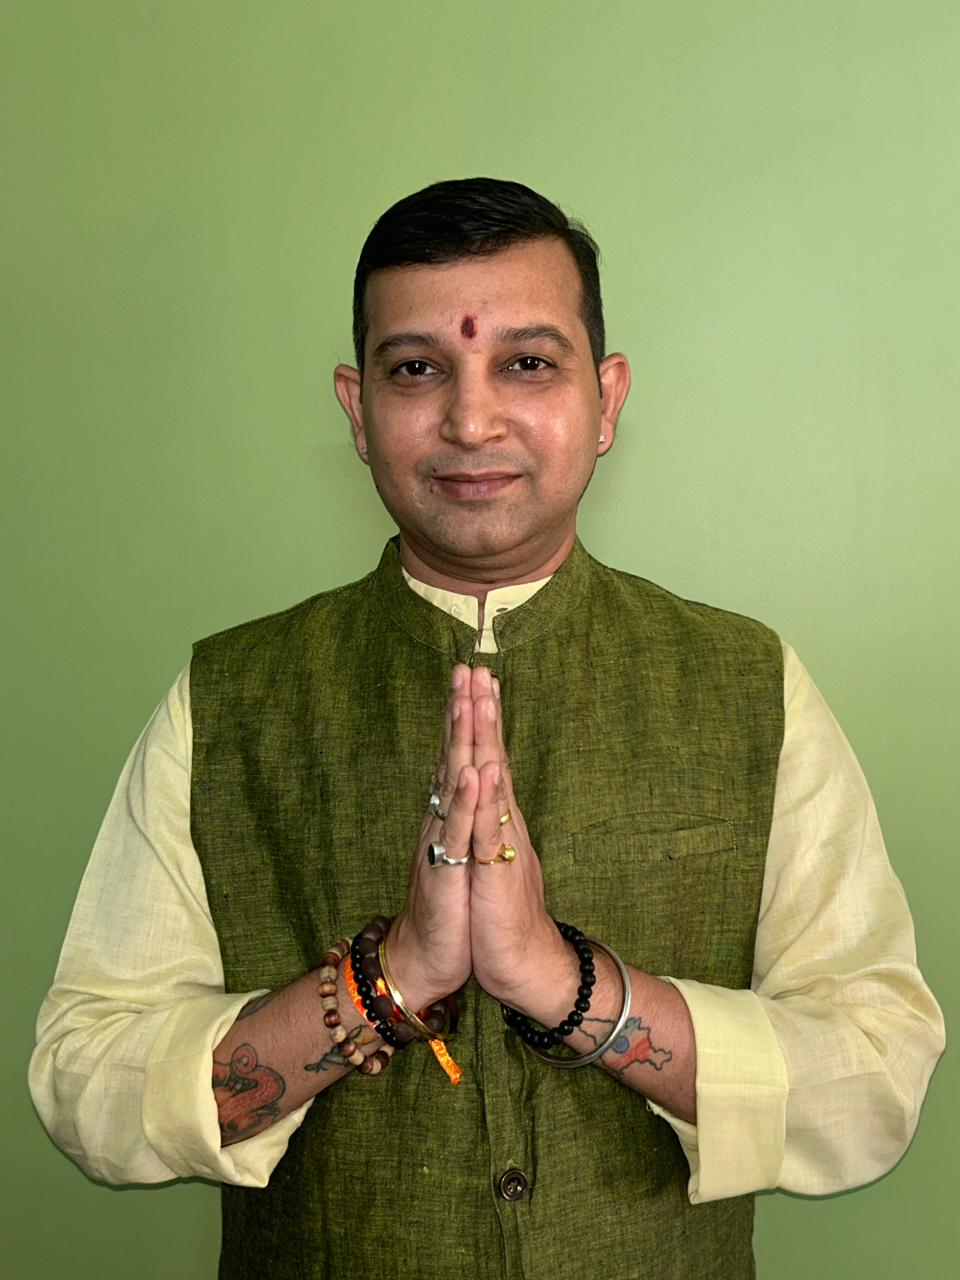
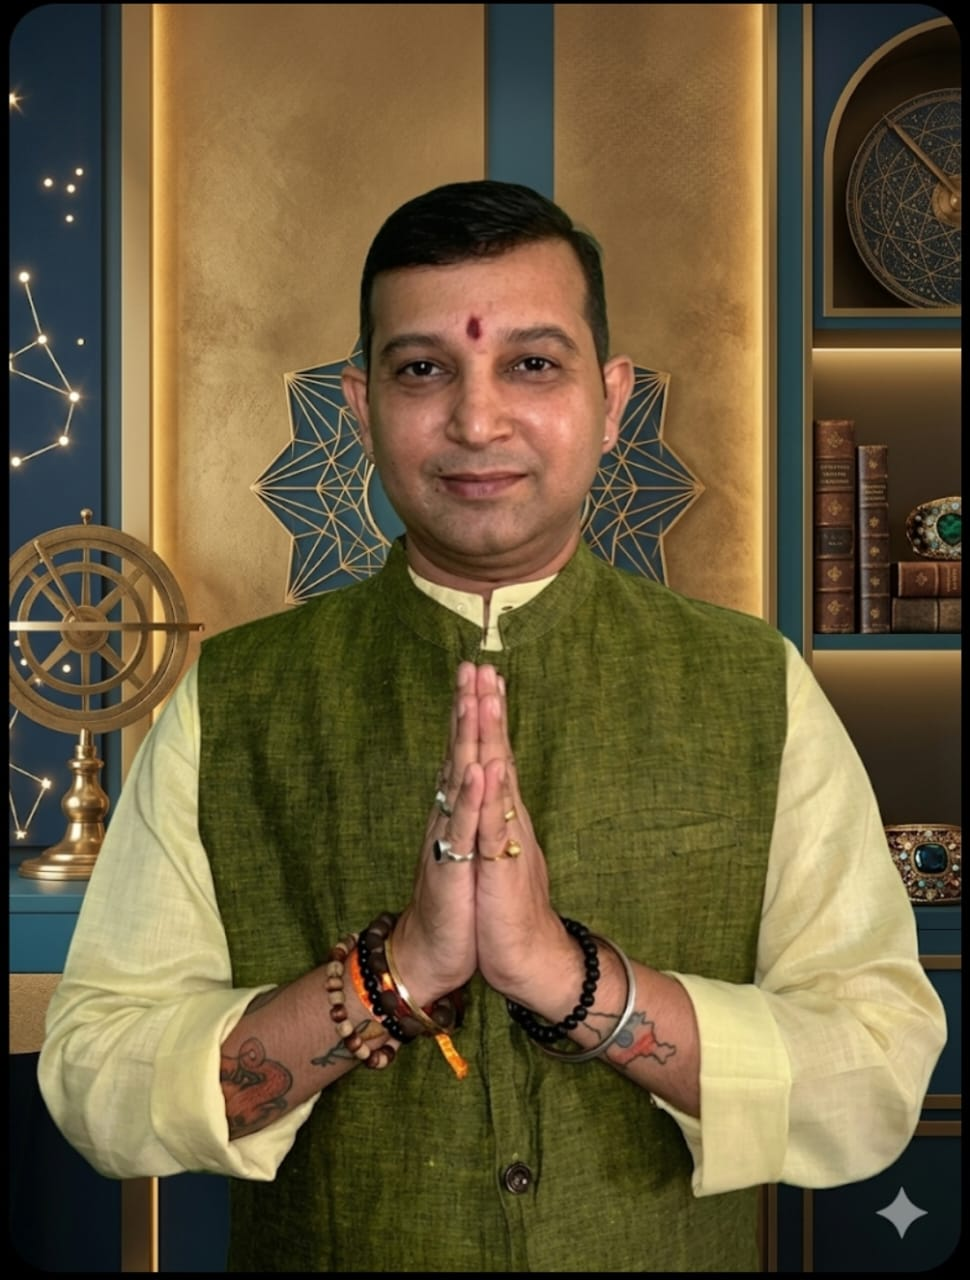
client img

diff --git a/src/components/home/HeroSection.tsx b/src/components/home/HeroSection.tsx
@@ -194,6 +194,137 @@
 //             </motion.p>
 //           </motion.div>
 
+//           {/* ── MOBILE: Astrologer Photo ── */}
+//           <motion.div
+//             initial={{ opacity: 0, y: 30 }}
+//             animate={{ opacity: 1, y: 0 }}
+//             transition={{ duration: 0.85, delay: 0.3, ease }}
+//             className="flex justify-center items-center w-full"
+//           >
+//             <div className="relative flex items-center justify-center">
+
+//               {/* background glow blob */}
+//               <div
+//                 className="pointer-events-none absolute rounded-full blur-3xl"
+//                 style={{
+//                   width: 280,
+//                   height: 280,
+//                   background:
+//                     "radial-gradient(circle, rgba(251,191,36,0.14) 0%, rgba(139,92,246,0.06) 55%, transparent 100%)",
+//                 }}
+//               />
+
+//               {/* pulsing rings */}
+//               {[
+//                 { s: [1, 1.25, 1], o: [0.5,  0, 0.5],  delay: 0,   color: "rgba(139,92,246,0.3)"  },
+//                 { s: [1, 1.52, 1], o: [0.35, 0, 0.35], delay: 1.0, color: "rgba(251,191,36,0.25)" },
+//                 { s: [1, 1.80, 1], o: [0.18, 0, 0.18], delay: 2.1, color: "rgba(251,191,36,0.14)" },
+//               ].map((r, i) => (
+//                 <motion.div
+//                   key={i}
+//                   className="absolute rounded-full border pointer-events-none"
+//                   animate={{ scale: r.s, opacity: r.o }}
+//                   transition={{ duration: 4, repeat: Infinity, ease: "easeInOut", delay: r.delay }}
+//                   style={{
+//                     width: 220,
+//                     height: 220,
+//                     borderColor: r.color,
+//                   }}
+//                 />
+//               ))}
+
+//               {/* floating image container */}
+//               <motion.div
+//                 animate={{ y: [-7, 0, -7] }}
+//                 transition={{ duration: 5.5, repeat: Infinity, ease: "easeInOut" }}
+//                 className="relative z-10"
+//               >
+//                 {/* corner brackets */}
+//                 {[
+//                   { top: -10, left:  -10, borderTop:    "1.5px solid", borderLeft:   "1.5px solid" },
+//                   { top: -10, right: -10, borderTop:    "1.5px solid", borderRight:  "1.5px solid" },
+//                   { bottom: -10, left:  -10, borderBottom: "1.5px solid", borderLeft:  "1.5px solid" },
+//                   { bottom: -10, right: -10, borderBottom: "1.5px solid", borderRight: "1.5px solid" },
+//                 ].map((c, i) => (
+//                   <motion.div
+//                     key={i}
+//                     initial={{ opacity: 0 }}
+//                     animate={{ opacity: 1 }}
+//                     transition={{ delay: 0.6 + i * 0.08 }}
+//                     className="absolute pointer-events-none"
+//                     style={{ ...c, width: 22, height: 22, borderColor: "rgba(251,191,36,0.75)", borderRadius: 3 }}
+//                   />
+//                 ))}
+
+//                 <div
+//                   className="relative rounded-2xl overflow-hidden"
+//                   style={{
+//                     background: "#06060f",
+//                     boxShadow: [
+//                       "0 0 0 1px rgba(251,191,36,0.38)",
+//                       "0 0 28px rgba(251,191,36,0.15)",
+//                       "0 0 70px rgba(251,191,36,0.07)",
+//                       "inset 0 1px 0 rgba(255,255,255,0.04)",
+//                       "0 32px 64px rgba(0,0,0,0.6)",
+//                     ].join(", "),
+//                   }}
+//                 >
+//                   <img
+//                     src={HeroImg}
+//                     alt="Astro Santosh Pandey"
+//                     className="block h-auto object-cover object-top"
+//                     style={{
+//                       width: "260px",
+//                       mixBlendMode: "screen",
+//                       filter: "brightness(0.94) contrast(1.09) saturate(1.06)",
+//                     }}
+//                   />
+//                   <div
+//                     className="absolute top-0 inset-x-0 h-20 pointer-events-none z-10"
+//                     style={{
+//                       background:
+//                         "radial-gradient(ellipse at 50% 0%, rgba(251,191,36,0.2) 0%, transparent 70%)",
+//                     }}
+//                   />
+//                   <div
+//                     className="absolute bottom-0 inset-x-0 h-20 pointer-events-none z-10"
+//                     style={{
+//                       background: "linear-gradient(to top, rgba(6,6,15,0.96) 0%, transparent 100%)",
+//                     }}
+//                   />
+//                 </div>
+//               </motion.div>
+
+//               {/* sparkle dots */}
+//               {[
+//                 { top: "9%",  left:  "1%",  size: 5, delay: 0.0 },
+//                 { top: "22%", right: "3%",  size: 4, delay: 0.8 },
+//                 { top: "48%", left:  "-1%", size: 6, delay: 1.6 },
+//                 { top: "68%", right: "2%",  size: 4, delay: 0.4 },
+//                 { top: "82%", left:  "5%",  size: 3, delay: 2.0 },
+//                 { top: "33%", right: "0%",  size: 5, delay: 1.2 },
+//                 { top: "58%", left:  "6%",  size: 3, delay: 2.4 },
+//               ].map((s, i) => (
+//                 <motion.div
+//                   key={i}
+//                   className="absolute rounded-full pointer-events-none"
+//                   style={{
+//                     width:      s.size,
+//                     height:     s.size,
+//                     top:        s.top,
+//                     left:       "left"  in s ? s.left  : undefined,
+//                     right:      "right" in s ? s.right : undefined,
+//                     background: "rgba(251,191,36,0.85)",
+//                     boxShadow:  `0 0 ${s.size * 3}px rgba(251,191,36,0.9)`,
+//                   }}
+//                   animate={{ opacity: [0.15, 1, 0.15], scale: [0.6, 1.5, 0.6] }}
+//                   transition={{ duration: 2.8, repeat: Infinity, ease: "easeInOut", delay: s.delay }}
+//                 />
+//               ))}
+//             </div>
+//           </motion.div>
+//           {/* ── END MOBILE: Astrologer Photo ── */}
+
 //         </div>
 
 //         {/* ── DESKTOP layout (hidden below lg) ── */}
@@ -265,17 +396,18 @@
 //                   background: "radial-gradient(circle, rgba(251,191,36,0.26) 0%, transparent 70%)",
 //                 }}
 //               />
+              
 //               <motion.img
-//                 src={LOGO}
-//                 alt="Astro Santosh Pandey Logo"
-//                 className="relative z-10 h-auto object-contain"
-//                 style={{
-//                   width: "clamp(260px, 28vw, 420px)",
-//                   filter: "drop-shadow(0 0 40px rgba(251,191,36,0.55))",
-//                 }}
-//                 animate={{ y: [-6, 0, -6] }}
-//                 transition={{ duration: 5, repeat: Infinity, ease: "easeInOut" }}
-//               />
+//   src={LOGO}
+//   alt="Astro Santosh Pandey Logo"
+//   className="relative z-10 h-auto object-contain"
+//   style={{
+//     width: "clamp(260px, 28vw, 420px)",
+//     filter: "brightness(1.15) contrast(0.95) drop-shadow(0 0 22px rgba(251,191,36,0.4))"
+//   }}
+//   animate={{ y: [-6, 0, -6] }}
+//   transition={{ duration: 5, repeat: Infinity, ease: "easeInOut" }}
+// />
 //             </div>
 
 //             <motion.div {...fadeUp(0.32)} className="relative mt-3 mb-2">
@@ -461,9 +593,10 @@
 
 
 
-//testing
 
 
+
+// // test 
 
 
 
@@ -581,18 +714,26 @@ export const HeroSection = () => {
             className="flex flex-col items-center gap-2 w-full"
           >
             <div className="relative flex items-center justify-center">
+              {/* Ambient glow behind logo */}
               <div
                 className="pointer-events-none absolute rounded-full blur-2xl"
                 style={{
-                  width: 220, height: 220,
-                  background: "radial-gradient(circle, rgba(251,191,36,0.26) 0%, transparent 70%)",
+                  width: 240, height: 240,
+                  background: "radial-gradient(circle, rgba(251,191,36,0.32) 0%, rgba(251,191,36,0.08) 55%, transparent 100%)",
                 }}
               />
               <motion.img
                 src={LOGO}
                 alt="Astro Santosh Pandey Logo"
                 className="relative z-10 h-auto object-contain"
-                style={{ width: 200, filter: "drop-shadow(0 0 28px rgba(251,191,36,0.5))" }}
+                style={{
+                  width: 200,
+                  // KEY FIX: "screen" blend mode makes the dark JPEG background
+                  // invisible so only the gold lion/zodiac artwork shines through —
+                  // matching exactly how the logo looks in the screenshot.
+                  mixBlendMode: "screen",
+                  filter: "brightness(1.1) contrast(1.05) saturate(1.1)",
+                }}
                 animate={{ y: [-5, 0, -5] }}
                 transition={{ duration: 5, repeat: Infinity, ease: "easeInOut" }}
               />
@@ -857,12 +998,13 @@ export const HeroSection = () => {
             style={{ minWidth: "clamp(280px, 30vw, 440px)" }}
           >
             <div className="relative flex items-center justify-center">
+              {/* Stronger ambient glow to complement gold logo */}
               <div
                 className="pointer-events-none absolute rounded-full blur-2xl"
                 style={{
-                  width:  "clamp(280px, 30vw, 460px)",
-                  height: "clamp(280px, 30vw, 460px)",
-                  background: "radial-gradient(circle, rgba(251,191,36,0.26) 0%, transparent 70%)",
+                  width:  "clamp(300px, 32vw, 480px)",
+                  height: "clamp(300px, 32vw, 480px)",
+                  background: "radial-gradient(circle, rgba(251,191,36,0.32) 0%, rgba(251,191,36,0.08) 55%, transparent 100%)",
                 }}
               />
               <motion.img
@@ -871,7 +1013,11 @@ export const HeroSection = () => {
                 className="relative z-10 h-auto object-contain"
                 style={{
                   width: "clamp(260px, 28vw, 420px)",
-                  filter: "drop-shadow(0 0 40px rgba(251,191,36,0.55))",
+                  // KEY FIX: "screen" blend mode knocks out the dark JPEG background
+                  // so only the vivid gold lion and zodiac ring are visible —
+                  // perfectly matching the screenshot's gold-on-dark aesthetic.
+                  mixBlendMode: "screen",
+                  filter: "brightness(1.1) contrast(1.05) saturate(1.1)",
                 }}
                 animate={{ y: [-6, 0, -6] }}
                 transition={{ duration: 5, repeat: Infinity, ease: "easeInOut" }}

diff --git a/src/pages/Contact.tsx b/src/pages/Contact.tsx
@@ -457,7 +457,7 @@ const Contact = () => {
                         "radial-gradient(circle, rgba(251,191,36,0.26) 0%, transparent 70%)",
                     }}
                   />
-                  <motion.img
+                  {/* <motion.img
                     src={LOGO}
                     alt="Astro Santosh Pandey Logo"
                     className="relative z-10 h-auto object-contain"
@@ -467,7 +467,24 @@ const Contact = () => {
                     }}
                     animate={{ y: [-5, 0, -5] }}
                     transition={{ duration: 5, repeat: Infinity, ease: "easeInOut" }}
-                  />
+                  /> */}
+
+
+                   <motion.img
+                                  src={LOGO}
+                                  alt="Astro Santosh Pandey Logo"
+                                  className="relative z-10 h-auto object-contain"
+                                  style={{
+                                    width: 200,
+                                    // KEY FIX: "screen" blend mode makes the dark JPEG background
+                                    // invisible so only the gold lion/zodiac artwork shines through —
+                                    // matching exactly how the logo looks in the screenshot.
+                                    mixBlendMode: "screen",
+                                    filter: "brightness(1.1) contrast(1.05) saturate(1.1)",
+                                  }}
+                                  animate={{ y: [-5, 0, -5] }}
+                                  transition={{ duration: 5, repeat: Infinity, ease: "easeInOut" }}
+                                />
                 </div>
 
                 {/* shloka */}
@@ -630,7 +647,7 @@ const Contact = () => {
                         "radial-gradient(circle, rgba(251,191,36,0.26) 0%, transparent 70%)",
                     }}
                   />
-                  <motion.img
+                  {/* <motion.img
                     src={LOGO}
                     alt="Astro Santosh Pandey Logo"
                     className="relative z-10 h-auto object-contain"
@@ -640,7 +657,23 @@ const Contact = () => {
                     }}
                     animate={{ y: [-6, 0, -6] }}
                     transition={{ duration: 5, repeat: Infinity, ease: "easeInOut" }}
-                  />
+                  /> */}
+
+                    <motion.img
+                                  src={LOGO}
+                                  alt="Astro Santosh Pandey Logo"
+                                  className="relative z-10 h-auto object-contain"
+                                  style={{
+                                    width: "clamp(260px, 28vw, 420px)",
+                                    // KEY FIX: "screen" blend mode knocks out the dark JPEG background
+                                    // so only the vivid gold lion and zodiac ring are visible —
+                                    // perfectly matching the screenshot's gold-on-dark aesthetic.
+                                    mixBlendMode: "screen",
+                                    filter: "brightness(1.1) contrast(1.05) saturate(1.1)",
+                                  }}
+                                  animate={{ y: [-6, 0, -6] }}
+                                  transition={{ duration: 5, repeat: Infinity, ease: "easeInOut" }}
+                                />
                 </div>
 
                 <motion.div {...fadeUp(0.32)} className="relative mt-3 mb-2 w-full">
